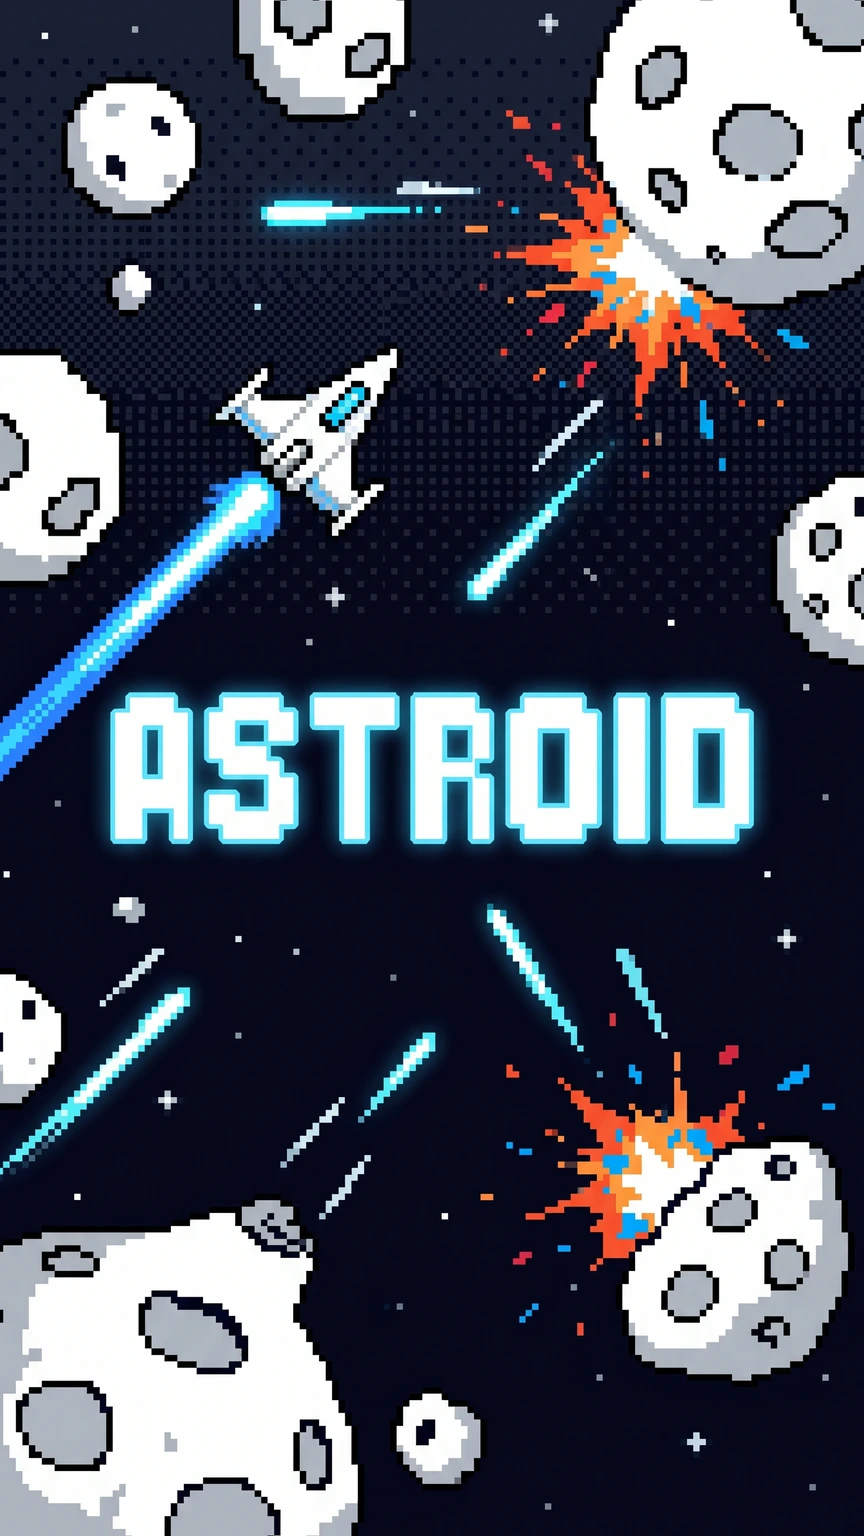
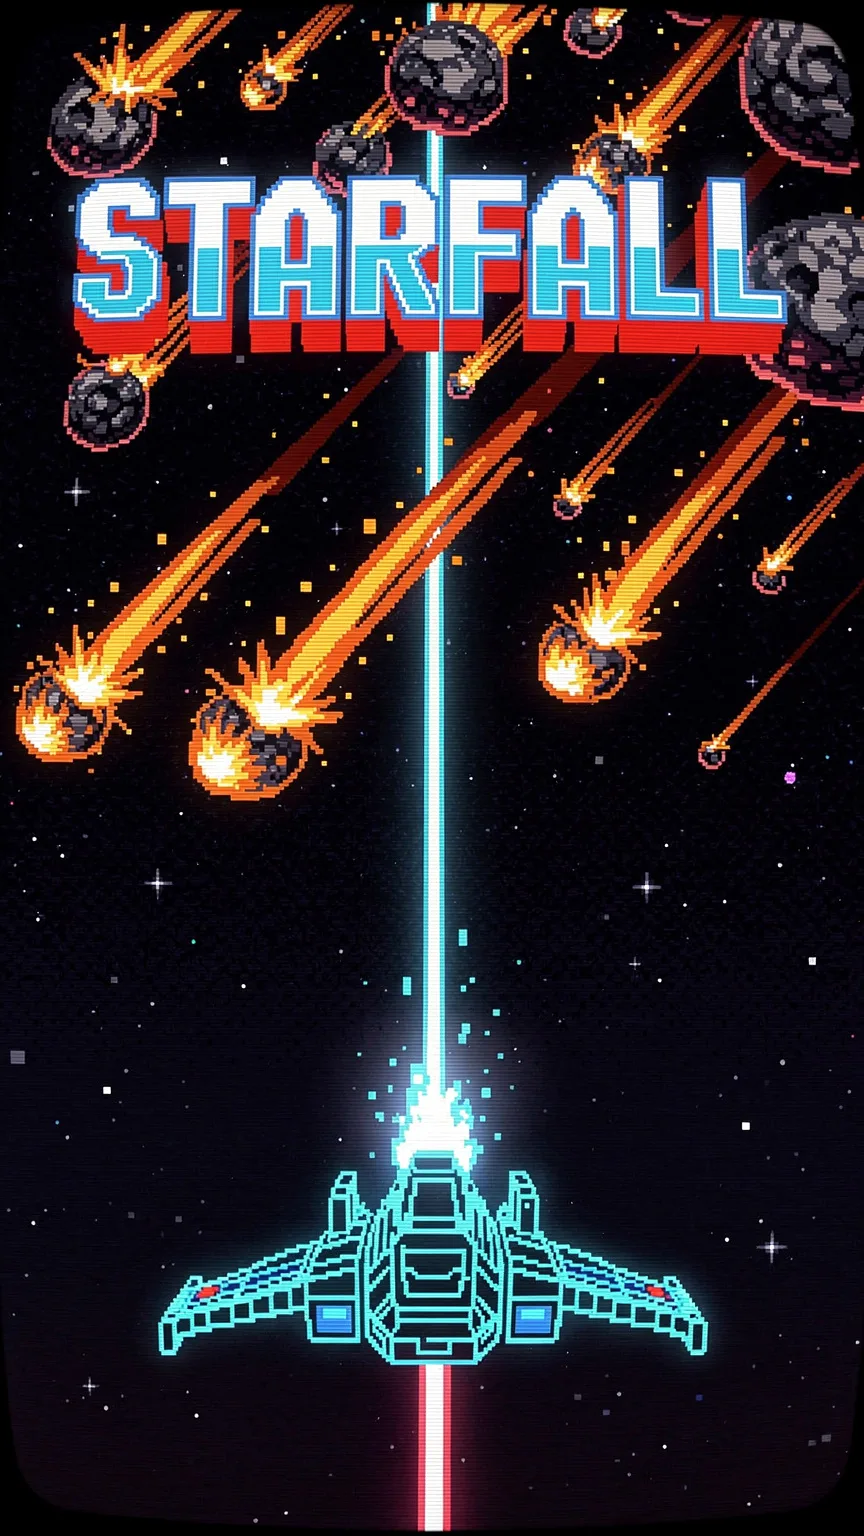
fix(web): repair generate import path; refresh starfall thumbnails
trpc route imported @user/api/media/limits (renamed to generate). new
starfall covers gen'd via vg generate (replaces renamed-astroid art).

diff --git a/apps/web/src/routes/api/trpc.$.ts b/apps/web/src/routes/api/trpc.$.ts
@@ -1,5 +1,5 @@
 import { appRouter, createTRPCContext } from "@repo/api";
-import { MAX_TRPC_BODY_BYTES } from "@repo/api/media/limits";
+import { MAX_TRPC_BODY_BYTES } from "@repo/api/generate/limits";
 import { createFileRoute } from "@tanstack/react-router";
 import { fetchRequestHandler } from "@trpc/server/adapters/fetch";
 